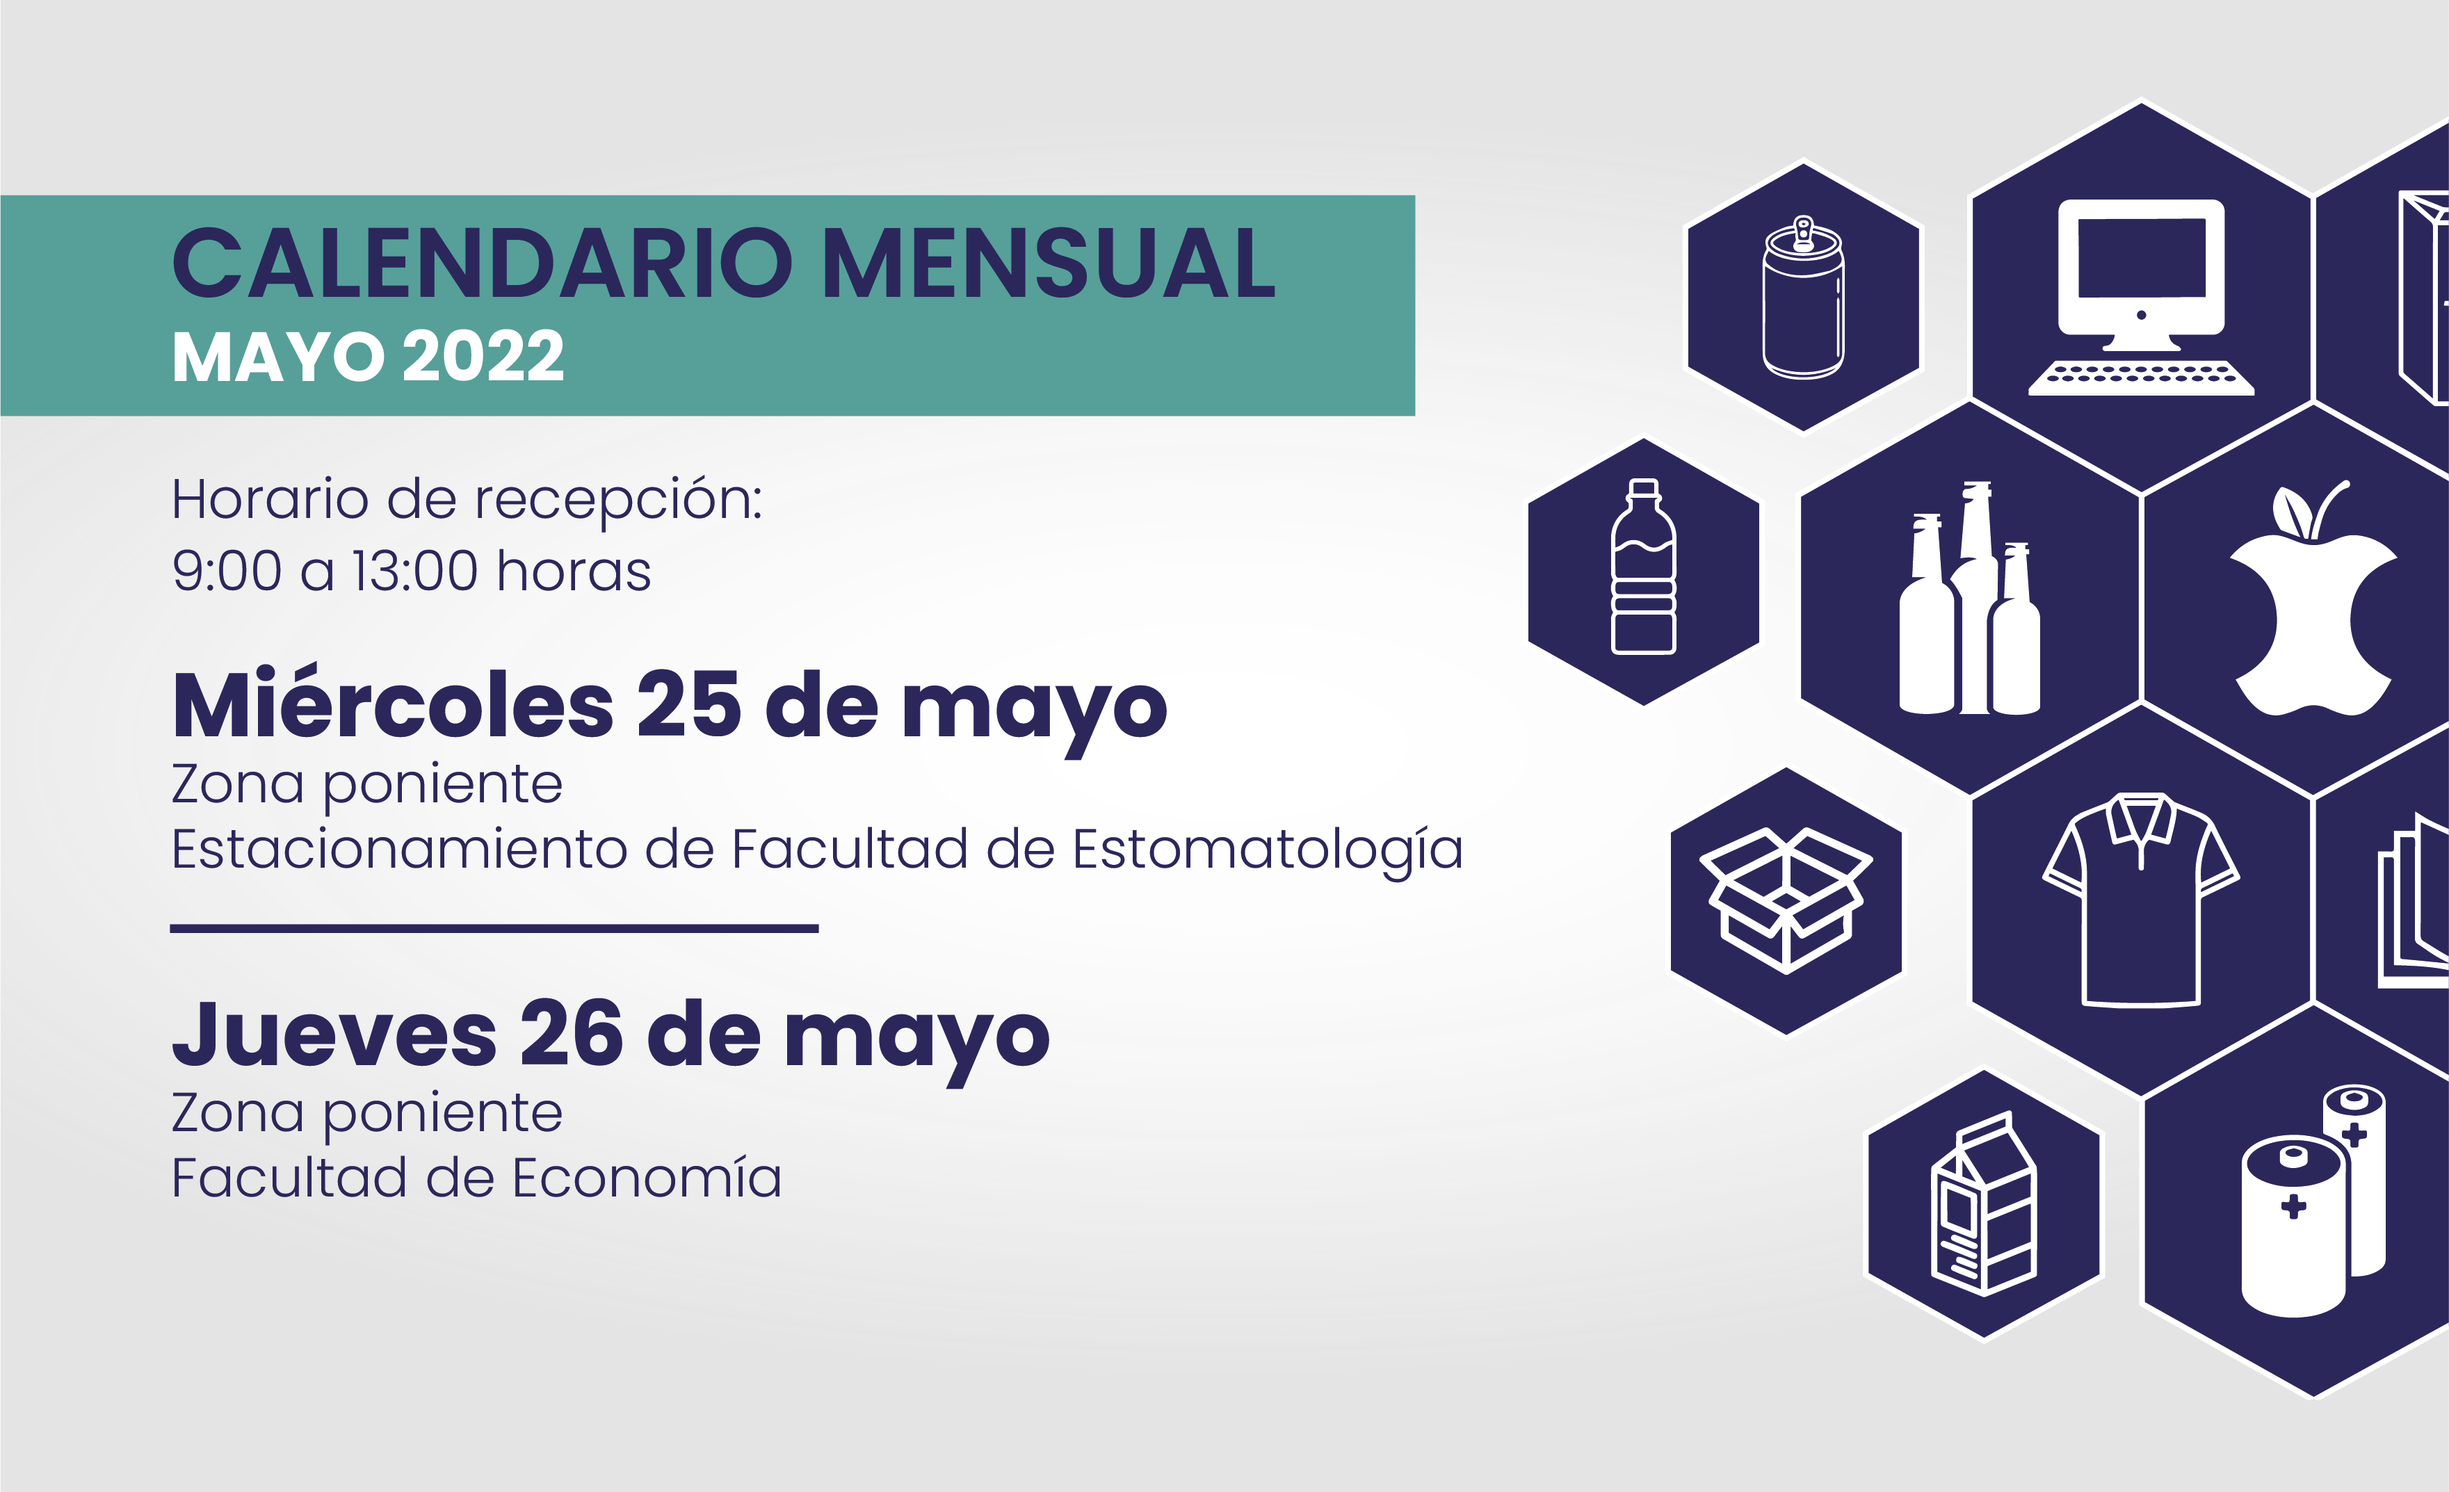
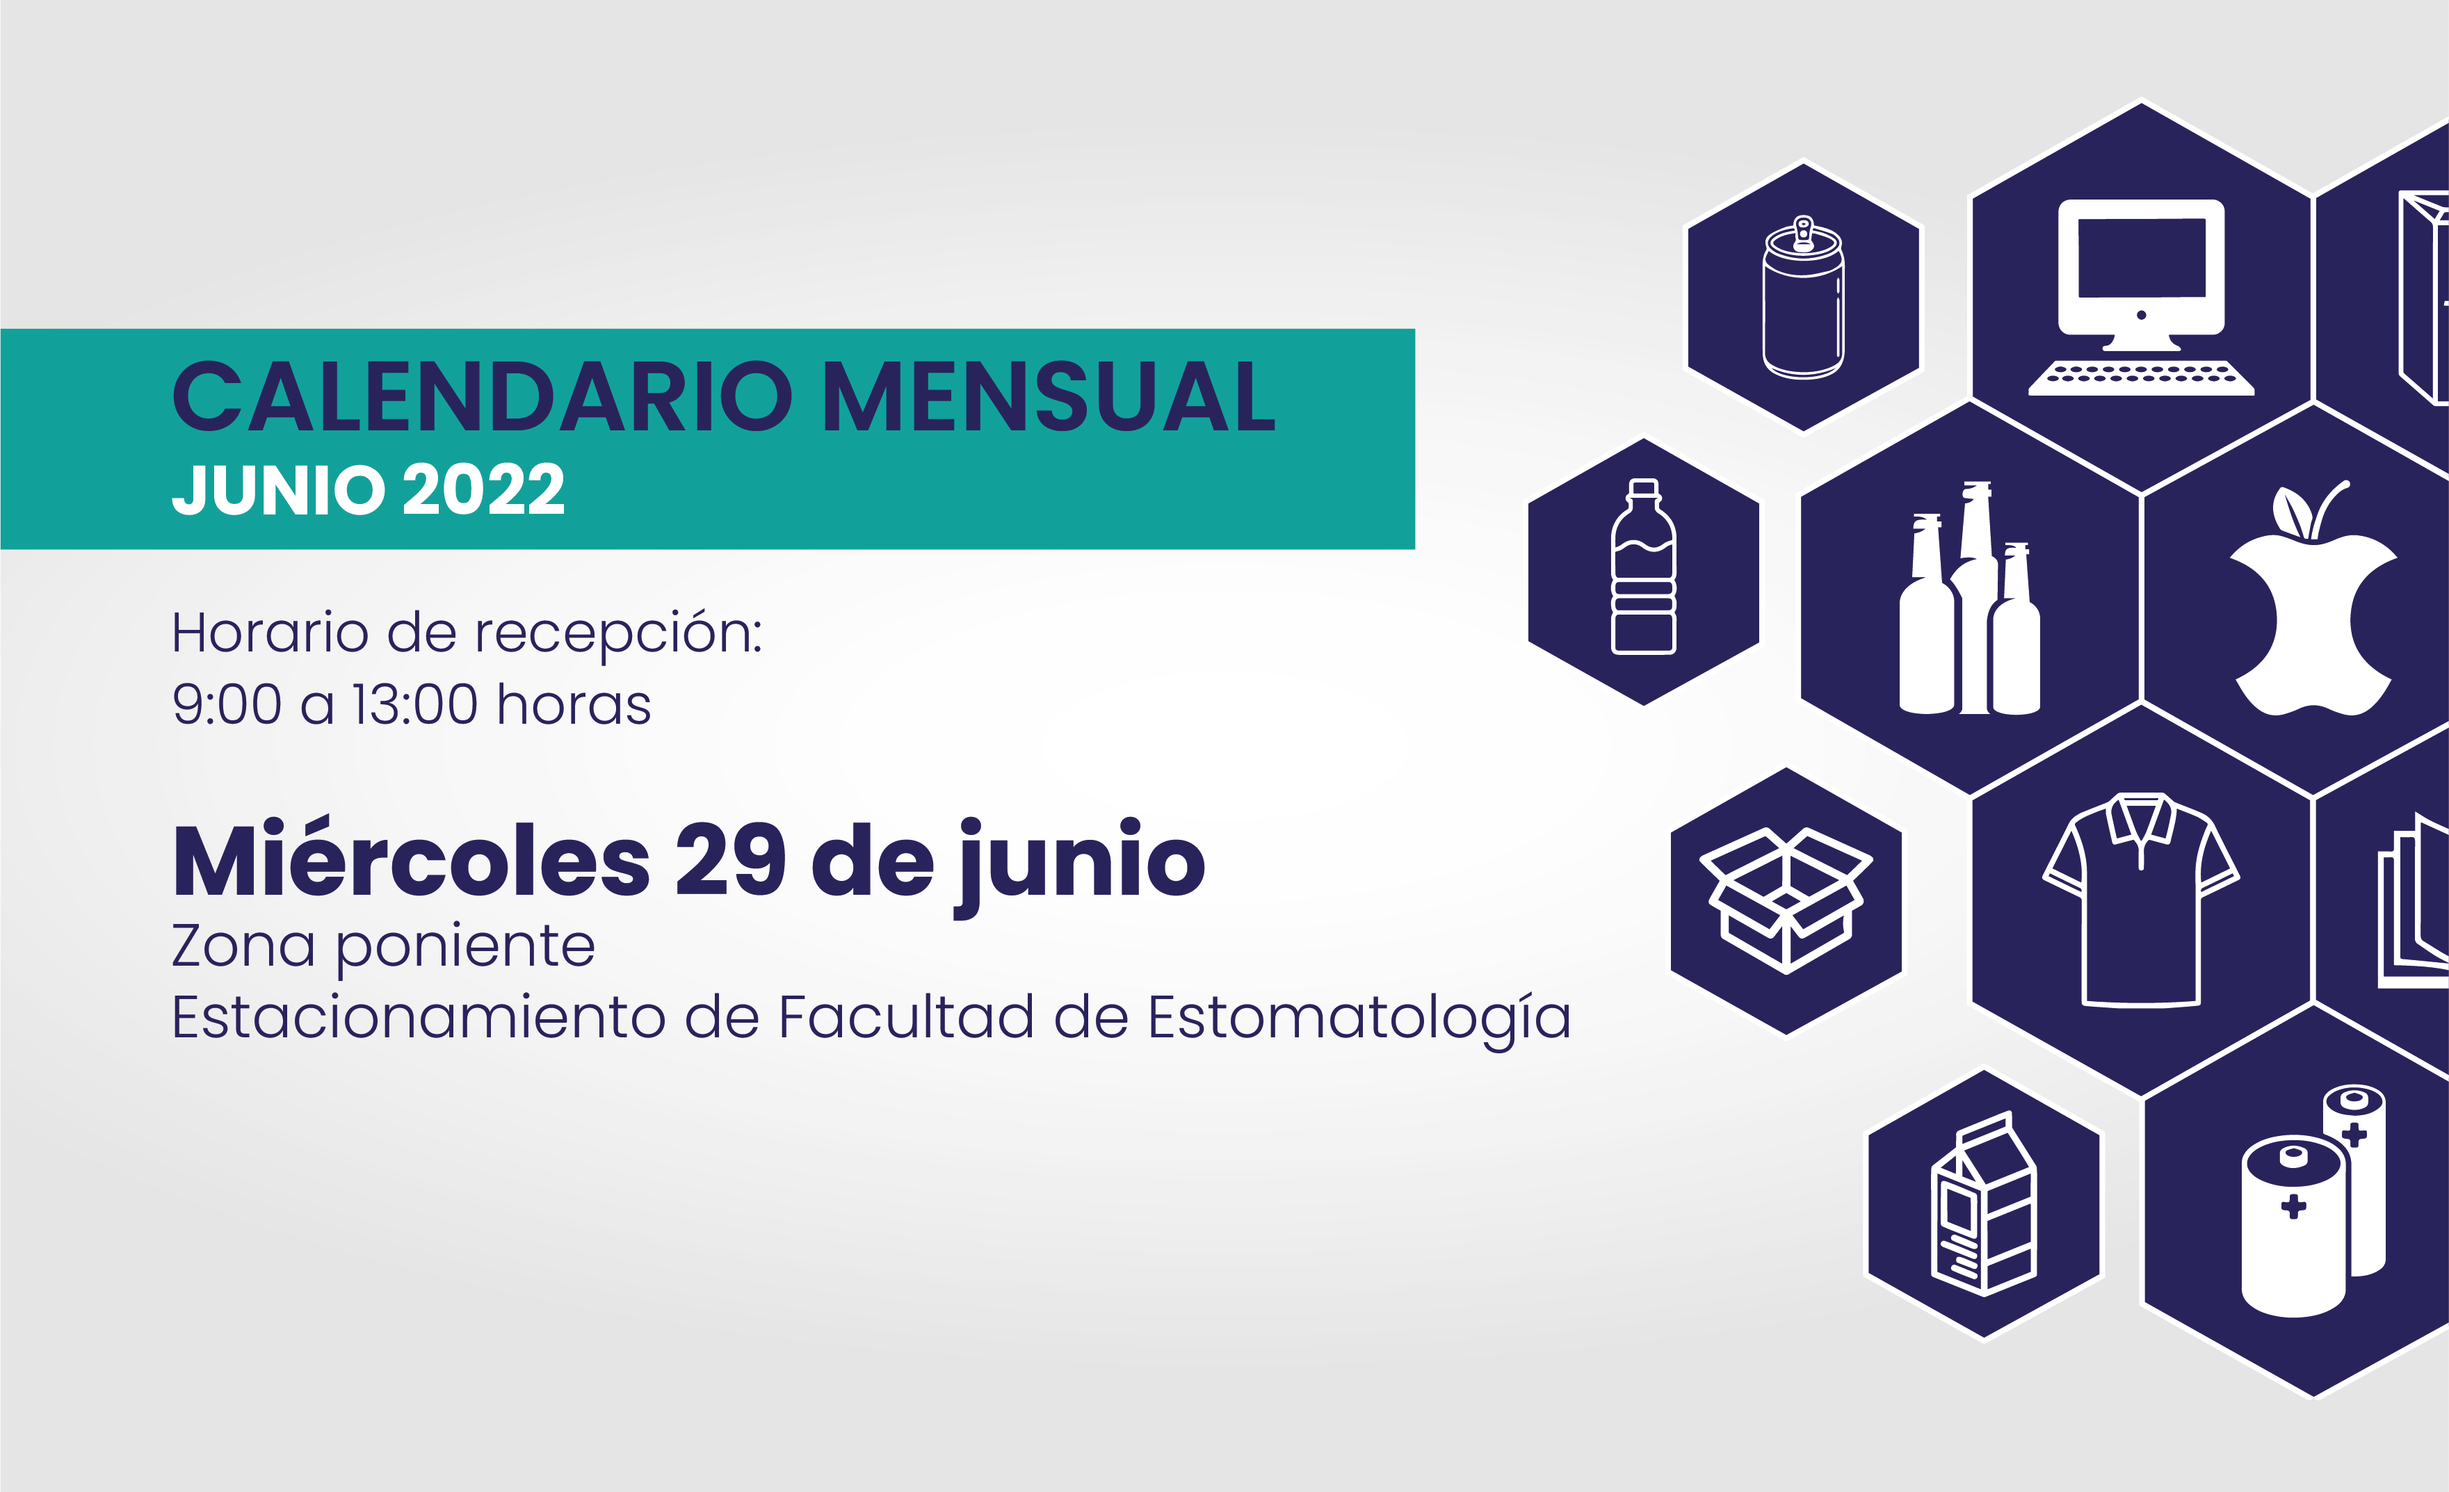
ECR junio 2022

Changed region(s): [[0.0, 0.1249, 0.6246, 0.8117]]

diff --git a/resources/views/ConsumoResponsable/contenido.blade.php b/resources/views/ConsumoResponsable/contenido.blade.php
@@ -185,7 +185,7 @@
                 <div class="container">
                     <div class="row justify-content-center">
                         <div class="col-12 col-xl-10 col-lg-10 col-md-10 col-sm-10 text-center ">
-                            <img src="{{asset('storage/imagenes/ConsumoResponsable/CartelECR_Mayo22.png')}}"
+                            <img src="{{asset('storage/imagenes/ConsumoResponsable/CartelECR_Junio22.png')}}"
                                 class="img-fluid" alt="">
                         </div>
                     </div>

diff --git a/resources/views/Bienvenido.blade.php b/resources/views/Bienvenido.blade.php
@@ -33,6 +33,7 @@
         ||Str::contains(url()->full(),route('Proserem'))
         ||Str::contains(url()->full(),route('ConsumoResponsable'))
         ||Str::contains(url()->full(),route('mmus2021'))
+        ||Str::contains(url()->full(),route('Cursos'))
         
         )
         <x-navbar-o-d-s>
